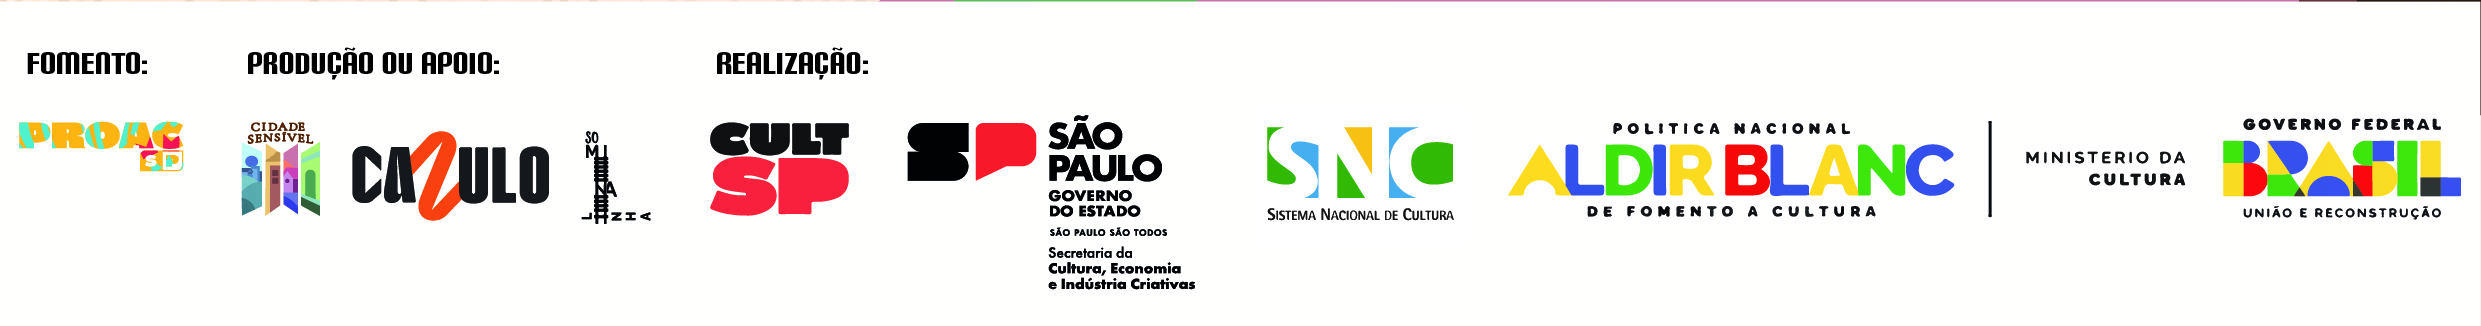
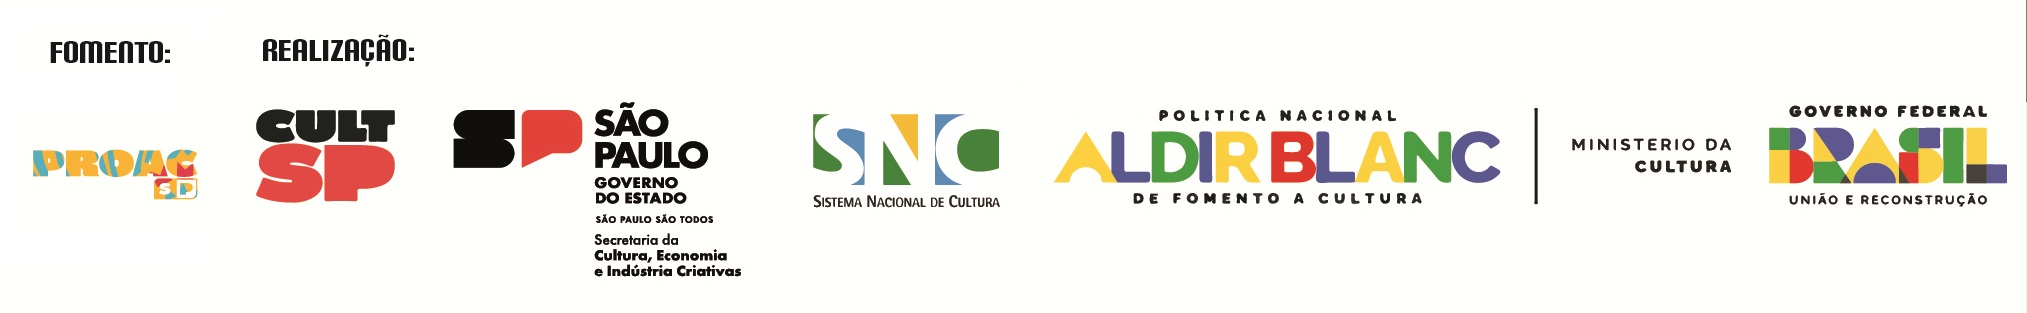
correções de bugs, implementações de mecânicas

diff --git a/exposicao.html b/exposicao.html
@@ -1,11 +1,7 @@
 <!-- Fotografias têm que abrir
- Fotografias têm que ser do mesmo tamanho
+ Retirar Produçao ou Apoio
  Vídeo de Cidade Substantivo Feminino 404  -> NATH
- Mapa solar só tem quatro fotos -> NATH
- Alterar a cor da página 
- Corrigir o menu sticky 
- Criar recurso de nav ir para o local da página clicado 
- Criar links nos subitens do nav -->
+ Mapa solar só tem quatro fotos -> NATH -->
 
 <!DOCTYPE html>
 <html lang="en">
@@ -38,7 +34,7 @@
 
         <div class="line2" style="margin-top: 10px;"></div>
 
-        <div class="card card-impar">
+        <section class="card card-impar" id="expografia">
             <h2>Expografia</h2>
             <div class="line"></div>
             <div class="fotos">
@@ -78,11 +74,11 @@
                     Digital: GuiNani. Iluminação: Denizart. Coordenação de Montagem/Desmontagem: Xavier de Sá e Débora
                     Bueno. Produção: Elora Carolina. Produção de Campo: Rafael Costa. Parceria: Fundação Inova Prudente
                 </p>
-            </div>
+            </section>
 
             <div class="line2"></div>
 
-            <div class="card card-par">
+            <section class="card card-par" id="carimbos">
                 <h2>Carimbos Sensíveis</h2>
                 <div class="line"></div>
                 <div class="fotos">
@@ -128,11 +124,11 @@
 
                 </div>
 
-            </div>
+            </section>
 
             <div class="line2"></div>
 
-            <div class="card card-impar">
+            <section class="card card-impar" id="sem-desconto">
                 <h2>Sem Desconto</h2>
                 <div class="line"></div>
                 <div class="fotos">
@@ -168,11 +164,11 @@
                         Vozes: Lizis, Mateuzinho Umbigaê, GuiNani, Nathália Campos e Bruna Parizi
                     </p>
                 </div>
-            </div>
+            </section>
 
             <div class="line2"></div>
 
-            <div class="card card-par">
+            <section class="card card-par" id="retomada">
                 <h2>Retomada</h2>
                 <div class="line"></div>
                 <div class="fotos">
@@ -209,11 +205,11 @@
                         maneiras.
                     </p>
                 </div>
-            </div>
+            </section>
 
             <div class="line2"></div>
 
-            <div class="card card-impar">
+            <section class="card card-impar" id="cidade">
                 <h2>Cidade Substantivo Feminino?</h2>
                 <div class="line"></div>
                 <div class="fotos">
@@ -247,11 +243,11 @@
                         Campos
                     </p>
                 </div>
-            </div>
+            </section>
 
             <div class="line2"></div>
 
-            <div class="card card-par">
+            <section class="card card-par" id="mapa-solar">
                 <h2>Mapa Solar</h2>
                 <div class="line"></div>
                 <div class="fotos">
@@ -289,11 +285,11 @@
                     </p>
 
                 </div>
-            </div>
+            </section>
 
             <div class="line2"></div>
 
-            <div class="card card-impar">
+            <section class="card card-impar" id="janelas">
                 <h2>Janelas</h2>
                 <div class="line"></div>
                 <div class="fotos">
@@ -333,11 +329,11 @@
                         Desenvolvimento Tecnologia: Gui Nani Assistência: Luciano Conde, Henly Cézio e Bruna Freitas.
                     </p>
                 </div>
-            </div>
+            </section>
 
             <div class="line2"></div>
 
-            <div class="card card-par">
+            <section class="card card-par" id="conto-cidade">
                 <h2>Conto Cidade</h2>
                 <div class="line"></div>
                 <div class="fotos">
@@ -375,11 +371,11 @@
                         de tecnologia: Gui Nani.</p>
 
                 </div>
-            </div>
+            </section>
 
             <div class="line2"></div>
 
-            <div class="card card-impar">
+            <section class="card card-impar" id="cidade-dorme">
                 <h2>Performance Cidade Dorme</h2>
                 <div class="line"></div>
                 <div class="fotos">
@@ -419,7 +415,7 @@
 
 
                 </div>
-            </div>
+            </section>
 
             <div class="line2"></div>
 
@@ -438,6 +434,16 @@
     <script src="src/scripts/load-components.js"></script>
     <script src="src/scripts/navbar.js"></script>
     <script src="src/scripts/back-to-top.js"></script>
+    <script>
+        window.onload = function() {
+            if (window.location.hash) {
+                const target = document.querySelector(window.location.hash);
+                if (target) {
+                    target.scrollIntoView({behavior: 'smooth'});
+                }
+            }
+        };
+    </script>
 </body>
 
 </html>

diff --git a/src/components/navbar.html b/src/components/navbar.html
@@ -15,15 +15,15 @@
             <li class="expo">
                 <button class="submenu-toggle"><a href="exposicao.html" class="botao-expo">A Exposição</a></button>
                 <ul class="expo_submenu">
-                    <li class="expo_subitem"><a>A Expografia</a></li>
-                    <li class="expo_subitem"><a>Carimbos Sensíveis</a></li>
-                    <li class="expo_subitem"><a>Sem Desconto</a></li>
-                    <li class="expo_subitem"><a>Retomada</a></li>
-                    <li class="expo_subitem"><a>Cidade Substantivo Feminino</a></li>
-                    <li class="expo_subitem"><a>Mapa Solar</a></li>
-                    <li class="expo_subitem"><a>Janelas</a></li>
-                    <li class="expo_subitem"><a>Conto Cidade</a></li>
-                    <li class="expo_subitem"><a>Performance Cidade Dorme</a></li>
+                    <li class="expo_subitem"><a href="exposicao.html#expografia">A Expografia</a></li>
+                    <li class="expo_subitem"><a href="exposicao.html#carimbos">Carimbos Sensíveis</a></li>
+                    <li class="expo_subitem"><a href="exposicao.html#sem-desconto">Sem Desconto</a></li>
+                    <li class="expo_subitem"><a href="exposicao.html#retomada">Retomada</a></li>
+                    <li class="expo_subitem"><a href="exposicao.html#cidade">Cidade Substantivo Feminino</a></li>
+                    <li class="expo_subitem"><a href="exposicao.html#mapa-solar">Mapa Solar</a></li>
+                    <li class="expo_subitem"><a href="exposicao.html#janelas">Janelas</a></li>
+                    <li class="expo_subitem"><a href="exposicao.html#conto-cidade">Conto Cidade</a></li>
+                    <li class="expo_subitem"><a href="exposicao.html#cidade-dorme">Performance Cidade Dorme</a></li>
                 </ul>
             </li>
             <li><a href="intervencao-urbana.html">Intervenção Urbana</a></li>
@@ -56,4 +56,4 @@
         </ul>
     </nav>
 </div>
-<script src="/src/scripts/navbar.js"></script>
+<script src="src/scripts/navbar.js"></script>

diff --git a/src/scripts/navbar.js b/src/scripts/navbar.js
@@ -4,7 +4,20 @@ function toggleMenu() {
     const menu = document.getElementById("menu-list");
     const toggle = document.querySelector(".menu-toggle");
 
-    menu.classList.toggle("show")
+    if (menu && toggle) {
+        menu.classList.toggle("show")
+        toggle.classList.toggle("active");
+    }
+};
 
-    toggle.classList.toggle("active");
-}
+document.addEventListener("click", function() {
+    const menu = document.getElementById("menu-list");
+    const toggle = document.querySelector(".menu-toggle");
+    const subtoggle = document.querySelector(".expo_submenu");
+
+    if (event.target.closest("#menu-list a")) {
+        menu.classList.remove("show");
+        toggle.classList.remove("active");
+        subtoggle.classList.remove("submenu-open");
+    }
+});

diff --git a/src/styles/intervencao-urbana.css b/src/styles/intervencao-urbana.css
@@ -1,3 +1,10 @@
+#navbar {
+    position: -webkit-sticky;
+    position: sticky;
+    top: 0;
+    z-index: 9999;
+}
+
 .line {
     clear: both;
     width: 95%;
@@ -20,10 +27,6 @@
     align-items: center;
     justify-content: center;
     text-align: center;
-}
-
-h1 {
-    padding-bottom: 20px;
 }
 
 .conteudo {
@@ -64,13 +67,17 @@ h1 {
 }
 
 @media (max-width: 550px) {
-    .texto .intertexto-dir {
+    .texto .img-dir {
         float: none;
         width: 95%;
+        padding: 0;
+        margin: 10px auto;
     }
 
-    .texto .intertexto-esq {
+    .texto .img-esq {
         float: none;
         width: 95%;
+        padding: 0;
+        margin: 10px auto;
     }
 }

diff --git a/src/components/rodape.html b/src/components/rodape.html
@@ -11,14 +11,6 @@
     </div>
 
     <div class="trecho">
-        <h2 class="rodape-item rodape-titulo">PRODUÇÃO OU APOIO:</h2>
-        <div class="subdivisao-logo">
-            <img class="rodape-item rodape-logo-longo" src="src/img/logo-colorida-cidade-sensivel.png"
-                alt="logo cidade sensível">
-            <img class="rodape-item rodape-logo-cumprido" src="src/img/rodape/cazulo.png" alt="">
-        </div>
-    </div>
-    <div class="trecho">
         <h2 class="rodape-item rodape-titulo">REALIZAÇÃO:</h2>
         <div class="subdivisao-logo">
             <img class="rodape-item rodape-logo-medio" src="src/img/rodape/cultsp.png" alt="">

diff --git a/src/styles/card.css b/src/styles/card.css
@@ -8,6 +8,7 @@
 }
 
 .card {
+    scroll-margin-top: 60px;
     padding-bottom: 20px;
     display: flow-root;
 }
@@ -69,8 +70,10 @@
 }
 
 .card .fotos img {
-    max-width: 20%;
-    height: auto;
+    width: 20%;
+    height: 15vw;
+    object-fit: cover;
+    object-position: center;
     padding: 5px;
 }
 

diff --git a/src/styles/pag-ini.css b/src/styles/pag-ini.css
@@ -9,6 +9,13 @@
 
 /* ---------------------------------------- main ---------------------------------------- */
 
+#navbar {
+    position: -webkit-sticky;
+    position: sticky;
+    top: 0;
+    z-index: 9999;
+}
+
 main {
     width: 100%;
     display: flex;

diff --git a/src/styles/exposicao.css b/src/styles/exposicao.css
@@ -1,3 +1,10 @@
+#navbar {
+    position: -webkit-sticky;
+    position: sticky;
+    top: 0;
+    z-index: 9999;
+}
+
 .imagem-cidade-dorme {
     width: 315px;
     height: auto;

diff --git a/src/styles/oficinas.css b/src/styles/oficinas.css
@@ -1,3 +1,10 @@
+#navbar {
+    position: -webkit-sticky;
+    position: sticky;
+    top: 0;
+    z-index: 9999;
+}
+
 .card.card-impar {
     background-color: #cb96c4;
 }

diff --git a/src/styles/projeto.css b/src/styles/projeto.css
@@ -1,3 +1,10 @@
+#navbar {
+    position: -webkit-sticky;
+    position: sticky;
+    top: 0;
+    z-index: 9999;
+}
+
 .card {
     background-color: #b6d694;
 }
